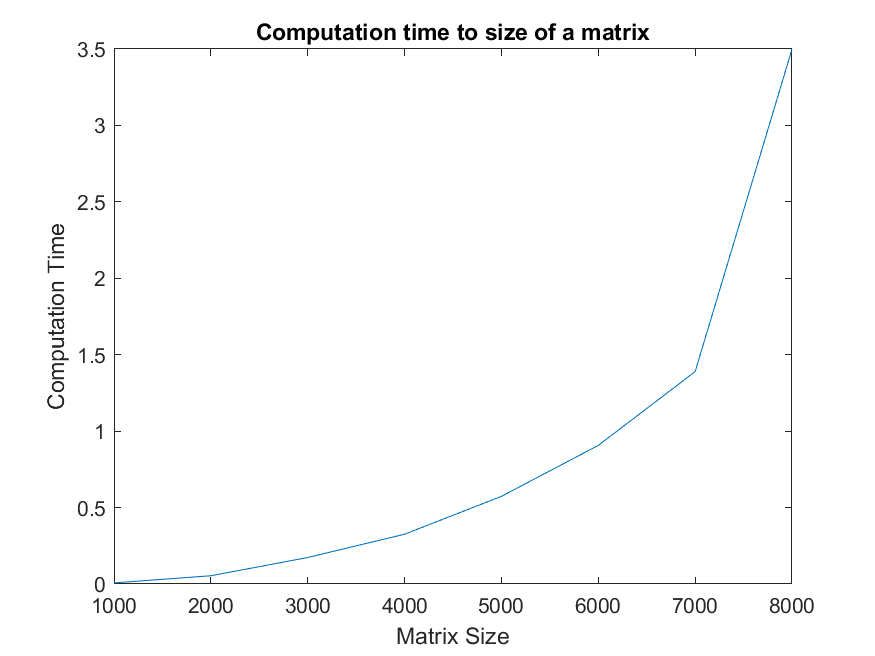
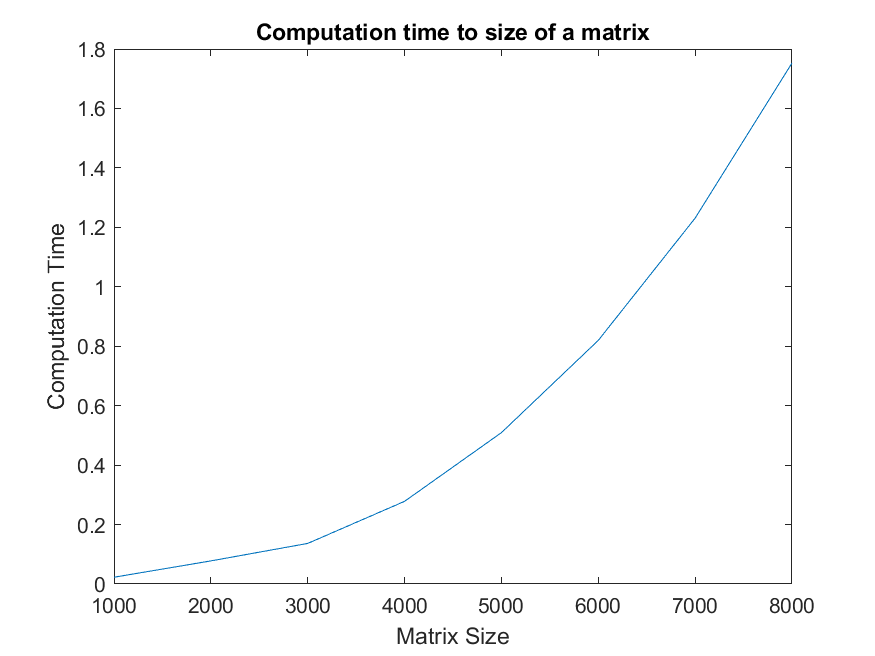
done Numeryczne lab3

diff --git a/Metody_Numeryczne_lab/lab3/plot_problem_5.m b/Metody_Numeryczne_lab/lab3/plot_problem_5.m
@@ -1,11 +1,27 @@
 function plot_problem_5(N,time_Jacobi,time_Gauss_Seidel,iterations_Jacobi,iterations_Gauss_Seidel)
+bar_data = [iterations_Jacobi; iterations_Gauss_Seidel];
 % Opis wektorów stanowiących parametry wejściowe:
 % N - rozmiary analizowanych macierzy
 % time_Jacobi - czasy wyznaczenia rozwiązania metodą Jacobiego
 % time_Gauss_Seidel - czasy wyznaczenia rozwiązania metodą Gaussa-Seidla
 % iterations_Jacobi - liczba iteracji wymagana do wyznaczenia rozwiązania metodą Jacobiego
 % iterations_Gauss_Seide - liczba iteracji wymagana do wyznaczenia rozwiązania metodą Gauss-Seidla
-
 subplot(2,1,1);
+plot(N,time_Jacobi); 
+hold on; 
+plot(N,time_Gauss_Seidel); 
+legend('Jacobi','GaussSeidel','Location','eastoutside');
+title("Comparison time complexity of Jacobi and GaussSeidel methods");
+xlabel('Matrix Size');
+ylabel('Computation Time');
+hold off;
 
+
+subplot(2,1,2);
+bar(N,bar_data);
+title("Comparison number of iterations to get result of Jacobi and GaussSeidel methods");
+legend('Jacobi','GaussSeidel','Location','eastoutside');
+xlabel('Matrix Size');
+ylabel('Number of iterations to get result');
+print('zadanie5.png','-dpng')
 end

diff --git a/Metody_Numeryczne_lab/lab3/main.m b/Metody_Numeryczne_lab/lab3/main.m
@@ -1,7 +1,7 @@
-%N = 100;
-%[A,b,x,time_direct,err_norm,index_number] = solve_direct(N);
-[A,b,x1,time_direct,err_norm,index_number] = solve_Jacobi(N);
-%[A,b,x2,time_direct,err_norm,index_number] = solve_Gauss_Seidel(N);
+N = 100;
+[A,b,x,time_direct,err_norm,index_number] = solve_direct(N);
+[A,b,M,bm,x1,err_norm,time,iterations,index_number] = solve_Jacobi(N);
+[A,b,M,bm,x2,err_norm,time,iterations,index_number] = solve_Gauss_Seidel(N);
 
 N = 1000:1000:8000;
 n = length(N);
@@ -9,7 +9,7 @@ vtime_direct = ones(1,n);
 
 for i = 1:n
     [A,b,x,time_direct,err_norm,index_number] = solve_direct(N(i));  
-    disp(time_direct);
+    fprintf("N = %d computing time: %d\n", 1000*i, time_direct);
     vtime_direct(i) = time_direct;
 end
 plot_direct(N,vtime_direct);

diff --git a/Metody_Numeryczne_lab/lab3/zad5_main.m b/Metody_Numeryczne_lab/lab3/zad5_main.m
@@ -1,0 +1,19 @@
+N = 1000:1000:8000;
+n = length(N);
+time_Jacobi = ones(1,n);
+time_Gauss_Seidel = ones(1,n);
+iterations_Jacobi = ones(1,n);
+iterations_Gauss_Seidel = ones(1,n);
+
+for i= 1:n
+    [A,b,M,bm,x1,err_norm,time,iterations,index_number] = solve_Jacobi(N(i));
+    iterations_Jacobi(i) = iterations;
+    time_Jacobi(i) = time;
+    fprintf("[JACOBI] N = %d computing time: %d\n", 1000*i, time);
+
+    [A,b,M,bm,x1,err_norm,time,iterations,index_number] = solve_Gauss_Seidel(N(i));
+    iterations_Gauss_Seidel(i) = iterations;
+    time_Gauss_Seidel(i) = time;
+    fprintf("[Gauss_Seidel] N = %d computing time: %d\n", 1000*i, time);
+end
+plot_problem_5(N,time_Jacobi,time_Gauss_Seidel,iterations_Jacobi,iterations_Gauss_Seidel);

diff --git a/Metody_Numeryczne_lab/lab3/solve_Gauss_Seidel.m b/Metody_Numeryczne_lab/lab3/solve_Gauss_Seidel.m
@@ -22,9 +22,10 @@ while true
     if i > iterations || err<err_norm
         break;
     end
-    disp(err);
+    %disp(err);
     i = i + 1;
 end
 toc;
+iterations = i;
 time = toc;
 end

diff --git a/Metody_Numeryczne_lab/lab3/solve_Jacobi.m b/Metody_Numeryczne_lab/lab3/solve_Jacobi.m
@@ -25,5 +25,6 @@ while true
     i = i + 1;
 end
 toc;
+iterations = i;
 time = toc;
 end
